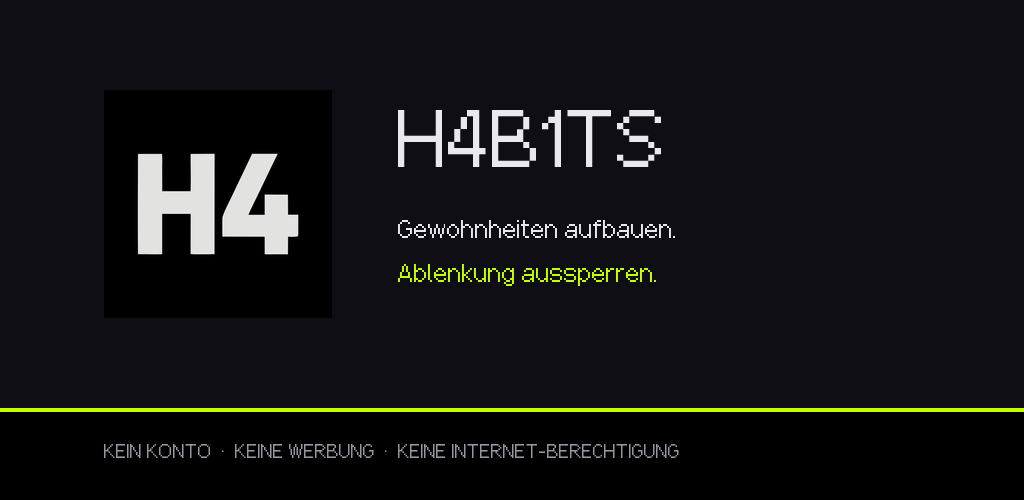
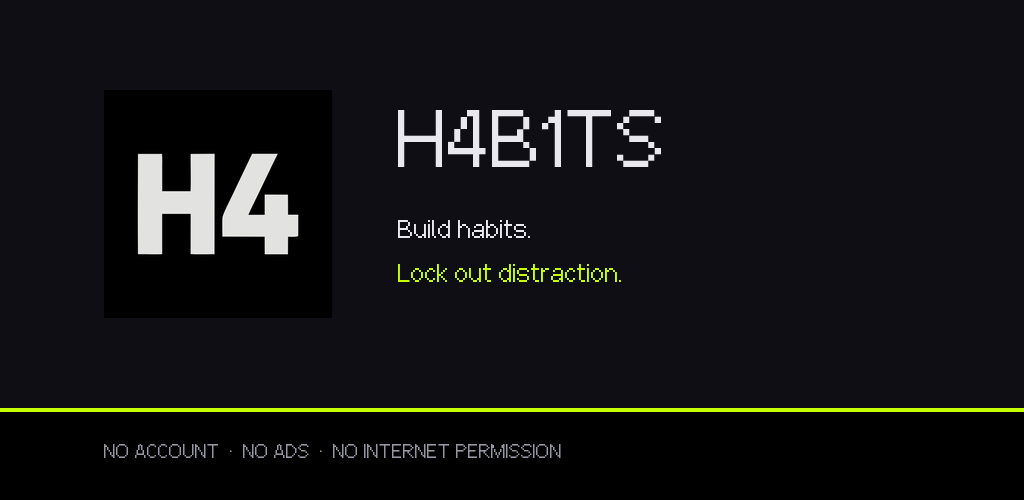
Write the store listing in the language the app speaks
The app is English throughout; the listing I wrote was German. Someone would
have read "Gewohnheiten aufbauen" and installed an English app.

Listing texts are now English, the Console default language should be English
(United States), and the feature graphic is rebuilt because it carried the
same mistake. German versions are kept, marked not to be used until the app
itself is translated.

Changed region(s): [[0.0938, 0.87, 0.6562, 0.93], [0.375, 0.51, 0.6562, 0.57], [0.375, 0.45, 0.6562, 0.48]]

diff --git a/store/play-eintrag.md b/store/play-eintrag.md
@@ -12,91 +12,104 @@ nicht.
 
 ## 1. Eintragstexte
 
+**Die Store-Sprache ist Englisch.** Die App ist durchgehend englisch — es gibt
+nur `values`, keinen `values-de`-Ordner. Ein deutscher Eintrag würde jemandem
+„Gewohnheiten aufbauen“ versprechen und eine englische App liefern. In der Play
+Console ist **English (United States)** als Standardsprache zu wählen.
+
+Deutsch kann später als zusätzliche Übersetzung dazukommen — sinnvollerweise
+erst, wenn auch die App übersetzt ist. Die deutschen Fassungen stehen unten
+aufgehoben.
+
 ### App-Name (max. 30 Zeichen)
 
 ```
-H4b1ts: Gewohnheiten & Fokus
+H4b1ts: Habits & Focus
 ```
 
-28 Zeichen.
+22 Zeichen. Die Marke vorn, dahinter die beiden Suchbegriffe. „Habits“ allein
+wäre im Store unauffindbar, „H4b1ts“ allein sucht niemand.
 
 ### Kurzbeschreibung (max. 80 Zeichen)
 
 ```
-Gewohnheiten aufbauen, ablenkende Apps sperren. Ohne Konto, ohne Datenabfluss.
+Build habits, lock the apps that get in the way. No account, no internet.
 ```
 
-78 Zeichen.
+73 Zeichen.
 
 ### Vollbeschreibung (max. 4000 Zeichen)
 
 ```
-H4b1ts ist ein Gewohnheits-Tracker, der auch sperren kann. Beides gehört
-zusammen: Eine gute Gewohnheit aufzubauen und eine schlechte loszuwerden sind
-dieselbe Aufgabe von zwei Seiten.
+H4b1ts is a habit tracker that can also lock apps. The two belong together:
+building a good habit and dropping a bad one are the same job seen from two
+sides.
 
-IDENTITÄT STATT PUNKTESTAND
+IDENTITY, NOT A SCORE
 
-Jede Gewohnheit hängt an einem Satz: "Ich bin jemand, der ..." Jede Erledigung
-ist eine Stimme dafür. Nicht die Serie ist das Ziel, sondern der Mensch, der
-sie führt.
+Every habit hangs on a sentence: "I am someone who ..." Each time you tick it
+off, that is one vote for the sentence. The streak is not the goal; the person
+keeping it is.
 
-NIE ZWEIMAL AUSLASSEN
+NEVER MISS TWICE
 
-Ein verpasster Tag bricht Ihre Serie nicht. Zwei hintereinander schon. Ein
-schlechter Tag ist ein Unfall, zwei sind der Anfang einer neuen Gewohnheit —
-und genau davor warnt die App, statt Sie für den ersten Ausrutscher zu
-bestrafen.
+One missed day does not break your streak. Two in a row does. A bad day is an
+accident, two are the start of a new habit - and that is what the app warns you
+about, instead of punishing the first slip.
 
-DIE ZWEI-MINUTEN-VARIANTE
+THE TWO-MINUTE VERSION
 
-Jede Gewohnheit speichert eine Mini-Version für schlechte Tage. Nicht
-"eine Stunde laufen", sondern "Laufschuhe anziehen". An den Tagen, an denen
-nichts geht, geht das.
+Every habit stores a smaller version for bad days. Not "run for an hour" but
+"put your running shoes on". On the days when nothing works, that still does.
 
-DIE SPERRE
+THE SHIELD
 
-Wählen Sie Apps, die Sie zu oft öffnen. H4b1ts legt einen Sperrbildschirm
-darüber, der zeigt, was der Griff gerade kostet. Kein Schloss, sondern
-Reibung: ein Countdown, eine Tippaufgabe, eine Ausnahme von einer Minute,
-wenn Sie sie wirklich brauchen.
+Pick the apps you open too often. H4b1ts puts a lock screen over them that
+shows what reaching for them costs right now. Not a wall, but friction: a
+countdown, a typing task, and a one-minute exception when you genuinely need
+one.
 
-Sie können eine App auch an eine Gewohnheit koppeln — erst der Lauf, dann der
-Feed.
+You can also tie an app to a habit - the run first, then the feed.
 
-FOKUS-SITZUNGEN
+FOCUS SESSIONS
 
-Eine Sitzung starten, und für ihre Dauer ist nur da, was Sie vorher erlaubt
-haben. Die Sitzung zeigt Ihre Gewohnheiten und Aufgaben des Tages, statt Sie
-nur auszusperren.
+Start a session and for its length only what you allowed beforehand is there.
+The session shows your habits and tasks for the day rather than just shutting
+you out.
 
-AUSSERDEM
+ALSO INSIDE
 
-- Aufgaben mit Wiederholungen und Erinnerungen
-- Notizen mit Bildern
-- Rückschau: Heatmap über Ihre Gewohnheiten, Tageszähler über rund ein Jahr
-- Hell- und Dunkelmodus, zwei Akzentfarben, kontraststarkes Design
-- Pixelart-Oberfläche
+- Tasks with repeats and reminders
+- Notes with pictures
+- Looking back: a heatmap of your habits, daily counts over roughly a year
+- Light and dark themes, two accent colours, a pixel-art interface
 
-IHRE DATEN BLEIBEN BEI IHNEN
+YOUR DATA STAYS WITH YOU
 
-H4b1ts hat keine Internet-Berechtigung. Das heißt: Die App kann technisch
-keine Verbindung ins Netz aufbauen. Kein Konto, keine Anmeldung, keine
-Analyse-Bibliotheken, keine Werbung, keine Übertragung — nicht weil wir es
-versprechen, sondern weil das Programm es nicht kann.
+H4b1ts has no internet permission. That means the app cannot open a network
+connection at all. No account, no sign-in, no analytics libraries, no ads,
+nothing transmitted - not because we promise it, but because the program
+cannot.
 
-Alles liegt im app-privaten Speicher Ihres Geräts und verschwindet
-rückstandslos, wenn Sie die App deinstallieren.
+Everything lives in your device's private app storage and disappears without a
+trace when you uninstall.
 
-BERECHTIGUNGEN
+PERMISSIONS
 
-Für die Sperre braucht die App den Zugriff auf Nutzungsdaten, um zu erkennen,
-welche App gerade vorn ist. Ausgewertet wird nur der Name der sichtbaren App,
-nur im Arbeitsspeicher. Es wird kein Nutzungsverlauf und keine Nutzungsdauer
-gespeichert.
+To lock apps, H4b1ts needs usage access so it can tell which app is in the
+foreground. Only the name of the visible app is read, and only in memory. No
+usage history and no usage time is stored.
 ```
 
-Rund 2.300 Zeichen — reichlich Luft unter dem Limit.
+Rund 2.100 Zeichen, reichlich Luft unter dem Limit.
+
+### Deutsch — aufgehoben für eine spätere Übersetzung
+
+Nicht eintragen, solange die App englisch ist.
+
+- Name: `H4b1ts: Gewohnheiten & Fokus` (28 Zeichen)
+- Kurz: `Gewohnheiten aufbauen, ablenkende Apps sperren. Ohne Konto, ohne Datenabfluss.` (78)
+- Die deutsche Vollbeschreibung steht in der Git-Historie dieses Dokuments.
 
 ---
 
